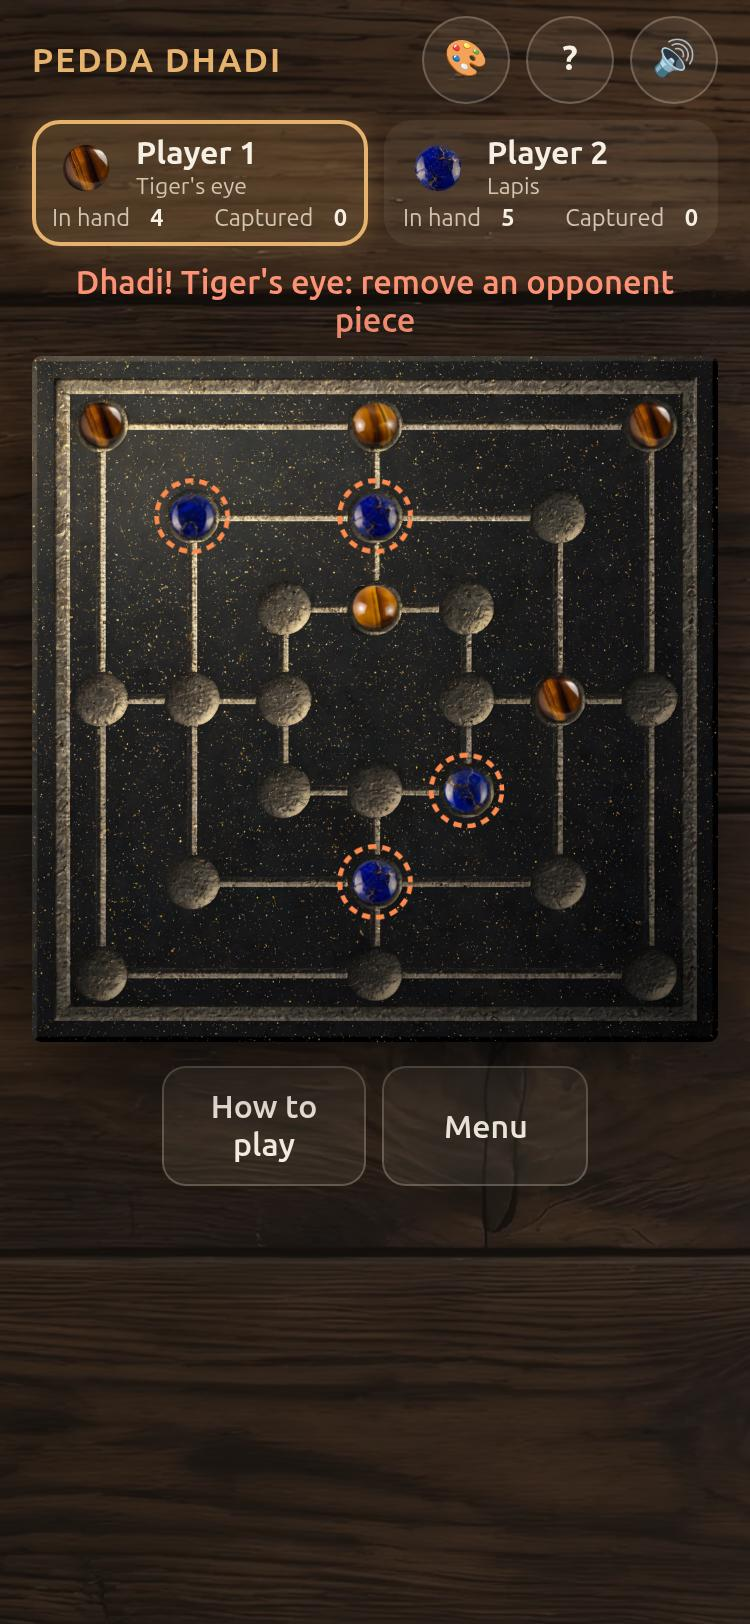
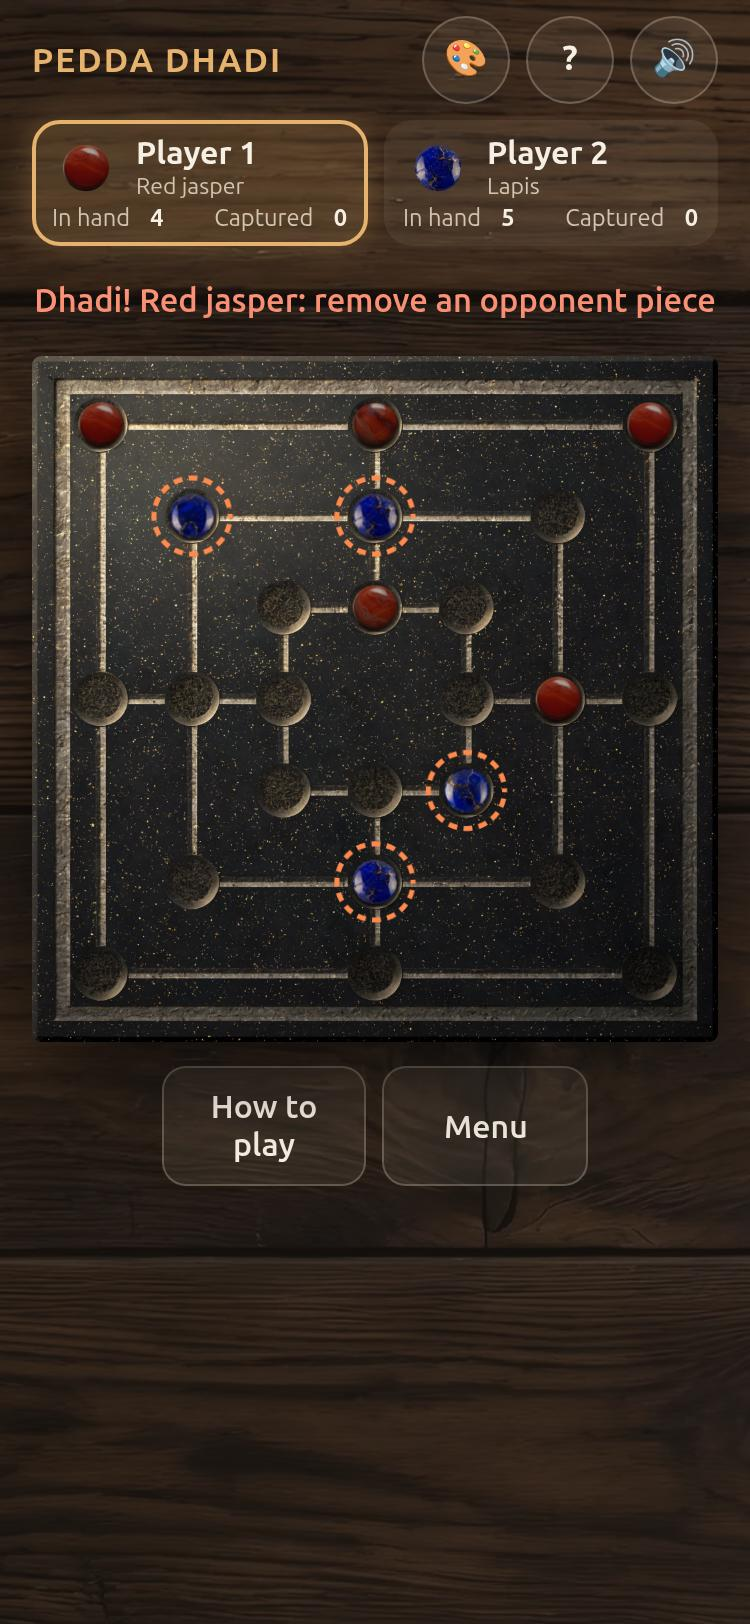
Granite: hollow cup shading, warmer light, red jasper replaces tiger's eye
- cups: smoothstep wall + flat dark floor, shaded so the upper-left wall is dark and lower-right lit; dust pooled on floors
- warmer side-light gradient and sheen; realism pass re-run at denoise 0.25 (geometry verified)
- red jasper cabochons (6 variants), luminance/chroma balanced to lapis; side names Red jasper / Lapis; SVG fallback restyled
- tiger's eye assets removed; screenshots and granite-stones.png updated

diff --git a/src/ui/themes/granite.ts b/src/ui/themes/granite.ts
@@ -1,13 +1,13 @@
 import type { Theme } from './theme';
 
-/** Granite: speckled stone with chalk lines at Low/Medium; at High/Ultra a carved black-granite slab on a wooden table. Tiger's eye versus lapis cabochons. */
+/** Granite: speckled stone with chalk lines at Low/Medium; at High/Ultra a carved black-granite slab on a wooden table. Red jasper versus lapis cabochons. */
 export const granite: Theme = {
   id: 'granite',
   name: 'Granite',
-  blurb: 'Carved granite slab, tiger\'s eye and lapis stones',
-  sideNames: ['Tiger\'s eye', 'Lapis'],
+  blurb: 'Carved granite slab, red jasper and lapis stones',
+  sideNames: ['Red jasper', 'Lapis'],
   scheme: 'dark',
-  swatches: { side0: '#d99a3a', side1: '#142a85', board: '#555550' },
+  swatches: { side0: '#ea6f52', side1: '#0f1f66', board: '#555550' },
   cssVars: {
     '--font': "'Segoe UI', 'Helvetica Neue', system-ui, -apple-system, sans-serif",
     '--bg': '#1a1612',
@@ -91,10 +91,10 @@ export const granite: Theme = {
       <feGaussianBlur stdDeviation="5" result="b"/>
       <feMerge><feMergeNode in="b"/><feMergeNode in="SourceGraphic"/></feMerge>
     </filter>
-    <radialGradient id="gr-tiger" cx="38%" cy="30%" r="85%">
-      <stop offset="0%" stop-color="#f0c060"/>
-      <stop offset="55%" stop-color="#c98a2b"/>
-      <stop offset="100%" stop-color="#7a4a12"/>
+    <radialGradient id="gr-jasper" cx="38%" cy="30%" r="85%">
+      <stop offset="0%" stop-color="#f58a68"/>
+      <stop offset="55%" stop-color="#dc5b3e"/>
+      <stop offset="100%" stop-color="#8a2a18"/>
     </radialGradient>
     <radialGradient id="gr-lapis" cx="38%" cy="30%" r="85%">
       <stop offset="0%" stop-color="#4a6be0"/>
@@ -125,15 +125,12 @@ export const granite: Theme = {
   piece(player, r) {
     const shadow = `<ellipse cx="2" cy="${r * 0.5}" rx="${r * 0.95}" ry="${r * 0.55}" fill="#000" opacity="0.5" filter="url(#gr-shadow)"/>`;
     if (player === 0) {
-      // Tiger's eye cabochon: golden brown with dark chatoyant bands and a soft highlight.
-      const band = (x: number, w: number, o: number) => {
-        const ry = 0.92 * Math.sqrt(Math.max(0, 1 - x * x)) * r;
-        return `<ellipse cx="${x * r}" cy="0" rx="${w * r}" ry="${ry}" fill="#2a1406" opacity="${o}"/>`;
-      };
+      // Red jasper cabochon: brick red with darker veins and a soft highlight.
       return `${shadow}
-        <circle r="${r}" fill="url(#gr-tiger)" stroke="#4a2a0a" stroke-width="1.6"/>
-        ${band(-0.32, 0.07, 0.75)}${band(0.12, 0.1, 0.8)}${band(0.45, 0.05, 0.6)}
-        <ellipse cx="${-r * 0.3}" cy="${-r * 0.42}" rx="${r * 0.3}" ry="${r * 0.14}" fill="#fff" opacity="0.5" transform="rotate(-28 ${-r * 0.3} ${-r * 0.42})"/>`;
+        <circle r="${r}" fill="url(#gr-jasper)" stroke="#4a1208" stroke-width="1.6"/>
+        <path d="M ${-r * 0.7} ${r * 0.1} Q ${-r * 0.1} ${-r * 0.35} ${r * 0.65} ${r * 0.05}" fill="none" stroke="#5a1a0e" stroke-width="${r * 0.12}" stroke-linecap="round" opacity="0.7"/>
+        <path d="M ${-r * 0.3} ${r * 0.6} Q ${r * 0.2} ${r * 0.35} ${r * 0.5} ${r * 0.55}" fill="none" stroke="#5a1a0e" stroke-width="${r * 0.08}" stroke-linecap="round" opacity="0.6"/>
+        <ellipse cx="${-r * 0.3}" cy="${-r * 0.42}" rx="${r * 0.3}" ry="${r * 0.14}" fill="#fff" opacity="0.45" transform="rotate(-28 ${-r * 0.3} ${-r * 0.42})"/>`;
     }
     // Lapis lazuli cabochon: deep blue with gold pyrite flecks.
     const fleck = (x: number, y: number, k: number) => `<circle cx="${x * r}" cy="${y * r}" r="${k * r}" fill="#e8c158" opacity="0.9"/>`;

diff --git a/tools/assetgen/compose_granite.py b/tools/assetgen/compose_granite.py
@@ -51,7 +51,7 @@ DEFAULTS = dict(
     groove_width=9.0,      # units at the surface (lip to lip)
     groove_slope=0.95,     # depth/half-width: steeper = deeper V
     cup_radius=24.0,       # units
-    cup_depth=40.0,        # px at 2048
+    cup_depth=52.0,        # px at 2048
     frame_inset=26.0,      # units from the slab edge to the channel centre-line
     frame_width=15.0,      # units
     frame_depth=13.0,      # px
@@ -124,7 +124,9 @@ def height_fields(o: dict):
         cd = np.minimum(cd, np.hypot(X - x * s, Y - y * s))
     r0 = o["cup_radius"] * s
     t = np.clip(cd / r0, 0, 1)
-    cups = np.where(cd < r0, o["cup_depth"] * (1 - t ** 3.2) ** 0.5, 0).astype(np.float32)
+    wall = 0.30                                    # fraction of the radius occupied by the sloped wall
+    u = np.clip((1 - t) / wall, 0, 1)
+    cups = np.where(cd < r0, o["cup_depth"] * (u * u * (3 - 2 * u)), 0).astype(np.float32)   # smoothstep wall, flat floor
     # grooves stop at the cup rim
     lines = np.where(cd < r0, 0, lines).astype(np.float32)
     # frame channel: trapezoid profile (chamfered walls, flat chiselled floor)
@@ -156,7 +158,8 @@ def compose(granite_path: Path, chisel_path: Path, out_path: Path, **overrides) 
     cl_hp = cl - gauss(cl, 6 * s / 3.4)  # tool marks / grain
     cl_hp = cl_hp / (cl_hp.std() + 1e-6)
     # roughness only exists inside the carving; lips stay crisp
-    depth = np.maximum(carve, hf["edge"]) + cav * o["rough"] * cl_hp * 0.55 + gauss(cav, 1.0) * cav * 0
+    cup_zone = (hf['cd'] < hf['r0']).astype(np.float32)
+    depth = np.maximum(carve, hf["edge"]) + cav * o["rough"] * cl_hp * 0.55 * (1 - 0.65 * cup_zone)
     depth = gauss(depth.astype(np.float32), 0.7)
 
     # ---- normals + lighting --------------------------------------------------------------------------
@@ -178,18 +181,25 @@ def compose(granite_path: Path, chisel_path: Path, out_path: Path, **overrides) 
     alb = (alb - 0.5) * 1.35 + 0.5
     alb = np.clip(alb * np.array([0.78, 0.74, 0.68], np.float32), 0, 1)  # darker, muted, slightly warm
     amb = o["ambient"]
-    cav_light = amb + (1 - amb) * np.clip(rel, 0, 2.1)
-    cupness = np.clip(1 - hf['cd'] / (hf['r0'] * 1.02), 0, 1)
-    cup_shade = 1 - 0.28 * np.clip(cupness * 3, 0, 1)   # the hollows sit in a bit more shade
+    cav_light = amb + (1 - amb) * np.clip(rel, 0, 1.8)
+    # cup hollows: the floor is a lot darker than the walls (it sits in shade), walls keep the full directional light
+    fdepth = np.clip(hf['cups'] / o['cup_depth'], 0, 1)            # 0 at the rim .. 1 at the centre
+    in_cup = (hf['cd'] < hf['r0']).astype(np.float32)
+    smooth_alb = gauss(alb[..., 0], 3.0)[..., None] * (alb / (alb.mean(axis=2, keepdims=True) + 1e-6)) 
+    flat = (in_cup * np.clip(fdepth * 3, 0, 1))[..., None]
+    alb = alb * (1 - 0.8 * flat) + smooth_alb * 0.8 * flat
+    cup_shade = 1 - in_cup * (0.90 * fdepth ** 0.9)
     carved = alb * (cav_light * ao * cup_shade)[..., None]
     # thin catch-light on faces turned towards the light
-    spec = np.clip(rel - 1.12, 0, 1) ** 1.3 * 0.8
+    spec = np.clip(rel - 1.12, 0, 1) ** 1.3 * 0.55
     carved = carved + spec[..., None] * np.array([0.9, 0.78, 0.55], np.float32)
     # soft dust collected in the low places and along the lit lip
     dust_n = np.clip(noise(n, 1.1 * s / 3.4, rng) * 0.5 + 0.35, 0, 1)
     low = np.clip(gauss(carve, 4 * s / 3.4) / 10.0, 0, 1)
     dust = (dust_n * low * 0.30)[..., None] * np.array([0.78, 0.68, 0.52], np.float32)
-    carved = np.clip(carved + dust * ao[..., None], 0, 1)
+    # a little dust pooled on the cup floors
+    pool = (in_cup * fdepth ** 2.0 * np.clip(noise(n, 1.4 * s / 3.4, rng) * 0.6 + 0.2, 0, 1) * 0.22)[..., None] * np.array([0.62, 0.52, 0.38], np.float32)
+    carved = np.clip(carved + dust * ao[..., None] + pool, 0, 1)
 
     # ---- polished granite surface --------------------------------------------------------------------
     tex = _load(granite_path, n)
@@ -217,10 +227,10 @@ def compose(granite_path: Path, chisel_path: Path, out_path: Path, **overrides) 
     # ---- global look: warm low light, broad gradient, polished sheen, far-corner falloff ------------------
     yy, xx = np.mgrid[0:n, 0:n].astype(np.float32) / n
     d = np.hypot(xx - 0.12, yy - 0.08) / 1.25
-    grad = np.clip(2.45 - 1.95 * d, 0.5, 2.5)
-    warm = np.stack([np.clip(1.05 - 0.08 * d, 0, 2), np.clip(0.97 - 0.02 * d, 0, 2), np.clip(0.84 + 0.14 * d, 0, 2)], axis=-1)
+    grad = np.clip(2.7 - 2.0 * d, 0.5, 2.8)
+    warm = np.stack([np.clip(1.04 - 0.08 * d, 0, 2), np.clip(0.97 - 0.02 * d, 0, 2), np.clip(0.88 + 0.12 * d, 0, 2)], axis=-1)
     img = img * (grad[..., None] * warm)
-    sheen = np.exp(-(((xx - 0.20) / 0.30) ** 2 + ((yy - 0.16) / 0.20) ** 2)) * 0.085
+    sheen = np.exp(-(((xx - 0.20) / 0.30) ** 2 + ((yy - 0.16) / 0.20) ** 2)) * 0.12
     sheen += np.exp(-(((xx - 0.55 - 0.3 * (yy - 0.5)) / 0.05) ** 2)) * 0.012  # faint diagonal reflection band
     img = img + (sheen * (1 - cav))[..., None] * np.array([1.0, 0.86, 0.66], np.float32)
 

diff --git a/tools/assetgen/assetgen.py b/tools/assetgen/assetgen.py
@@ -259,6 +259,51 @@ def relight_stone(img: Image.Image) -> Image.Image:
     return Image.fromarray((out * 255 + 0.5).astype(np.uint8), "RGBA")
 
 
+BALANCE: dict = {}
+
+
+def stone_stats(imgs):
+    import numpy as np
+    L, C = [], []
+    for im in imgs:
+        a = np.asarray(im.convert("RGBA"), np.float32) / 255.0
+        m = a[..., 3] > 0.9
+        rgb = a[..., :3][m]
+        L.append(0.299 * rgb[:, 0] + 0.587 * rgb[:, 1] + 0.114 * rgb[:, 2])
+        C.append(rgb.max(axis=1) - rgb.min(axis=1))
+    return float(np.concatenate(L).mean()), float(np.concatenate(C).mean())
+
+
+def balance_sets(theme: str) -> None:
+    """Match red jasper (p1) to lapis (p2) in mean luminance and chroma; report before/after."""
+    import numpy as np
+    fin = SRC / theme / "pieces" / "final"
+    sets = {k: [relight_stone(Image.open(f).convert("RGBA")) for f in sorted(fin.glob(f"{k}_*.png"))] for k in ("p1", "p2")}
+    if not sets["p1"] or not sets["p2"]:
+        return
+    l2, c2 = stone_stats(sets["p2"])
+    l1, c1 = stone_stats(sets["p1"])
+    gain = l2 / l1
+    chroma = (c2 / c1) / gain   # applied before the gain, so the final chroma matches
+    BALANCE["p1"] = (gain, chroma)
+    out = []
+    for im in sets["p1"]:
+        out.append(apply_balance(im, gain, chroma))
+    l1b, c1b = stone_stats(out)
+    say(f"balance: lapis L={l2:.3f} chroma={c2:.3f}; jasper before L={l1:.3f} chroma={c1:.3f} -> after L={l1b:.3f} chroma={c1b:.3f} (gain {gain:.2f}, chroma x{chroma:.2f})")
+
+
+def apply_balance(img: Image.Image, gain: float, chroma: float) -> Image.Image:
+    import numpy as np
+    a = np.asarray(img.convert("RGBA"), np.float32) / 255.0
+    rgb = a[..., :3]
+    lum = (0.299 * rgb[..., 0] + 0.587 * rgb[..., 1] + 0.114 * rgb[..., 2])[..., None]
+    rgb = lum + (rgb - lum) * chroma          # chroma about the luma axis
+    rgb = rgb * gain
+    out = np.concatenate([np.clip(rgb, 0, 1), a[..., 3:4]], axis=-1)
+    return Image.fromarray((out * 255 + 0.5).astype(np.uint8), "RGBA")
+
+
 def make_piece_shadow(path: Path, size: int = 192) -> None:
     """Soft contact shadow, same box as a stone image; offset to the lower right (light is upper left)."""
     import numpy as np
@@ -285,9 +330,12 @@ def export_pieces(theme: str, a: dict, out_dir: Path) -> None:
         say(f"- {prefix}: no pieces/final/{prefix}_*.png, skipped")
         return
     make_piece_shadow(out_dir / "piece_shadow.webp")
+    balance_sets(theme)
     say(f"- {(out_dir / 'piece_shadow.webp').relative_to(ROOT)}  192x192")
     for f in finals:
         img = relight_stone(Image.open(f).convert("RGBA"))
+        if prefix in BALANCE:
+            img = apply_balance(img, *BALANCE[prefix])
         for level, size in (("ultra", 256), ("high", 128)):
             path = out_dir / f"piece_{f.stem}.{level}.webp"
             img.resize((size, size), Image.LANCZOS).save(path, "WEBP", quality=92, alpha_quality=100, method=6)
